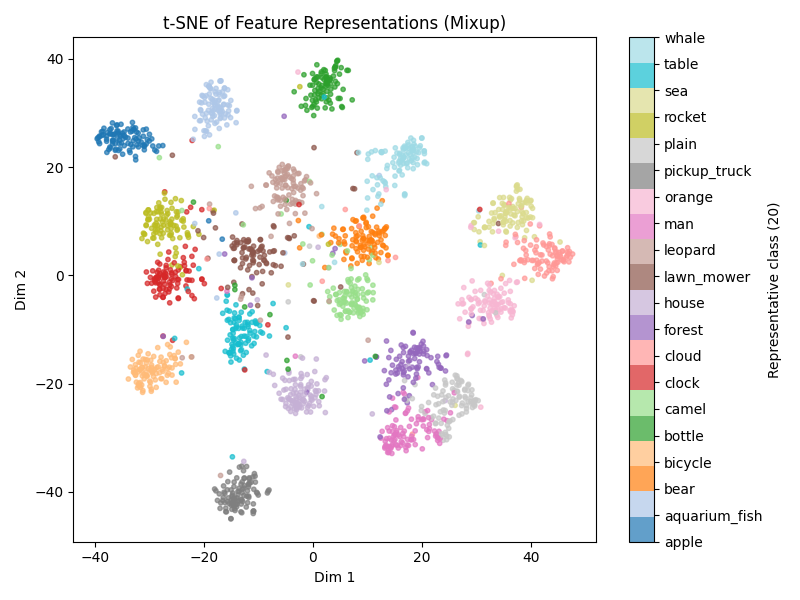
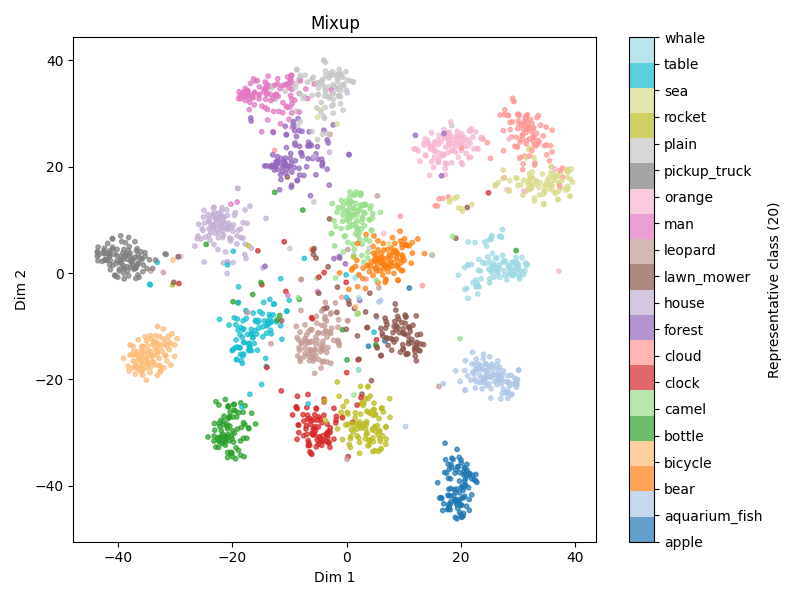
a

diff --git a/visualize_feat.py b/visualize_feat.py
@@ -174,7 +174,7 @@ os.makedirs(f"./result_features/{method}/{data_type}", exist_ok=True)
 augmentations = [
     # "FOMA-Mixup",
     "Default",
-    # "Mixup", 
+    "Mixup", 
     # "Local-FOMA", 
     # "Mixup-FOMA2",
 ]
@@ -276,6 +276,8 @@ for augment in augmentations:
     plt.figure(figsize=(8, 6))
     if augment == "Mixup-FOMA2":
         augment = "Mixup-FOMA"
+    if augment == "Default":
+        augment = "Baseline"
     if data_type == "cifar100":
         # cmap = cm.get_cmap('tab20', 20)
         cmap = plt.get_cmap('tab20', 20)
@@ -295,7 +297,7 @@ for augment in augmentations:
             cbar.ax.set_yticklabels(REPRESENTATIVE_20_NAMES)
         except Exception:
             pass
-        title = f"t-SNE of Feature Representations ({augment})"
+        title = f"{augment}"
         save_suffix = "_20classes"
     else:
         scatter = plt.scatter(X_2d[:, 0], X_2d[:, 1], c=y, cmap='tab10', s=6, alpha=1)
